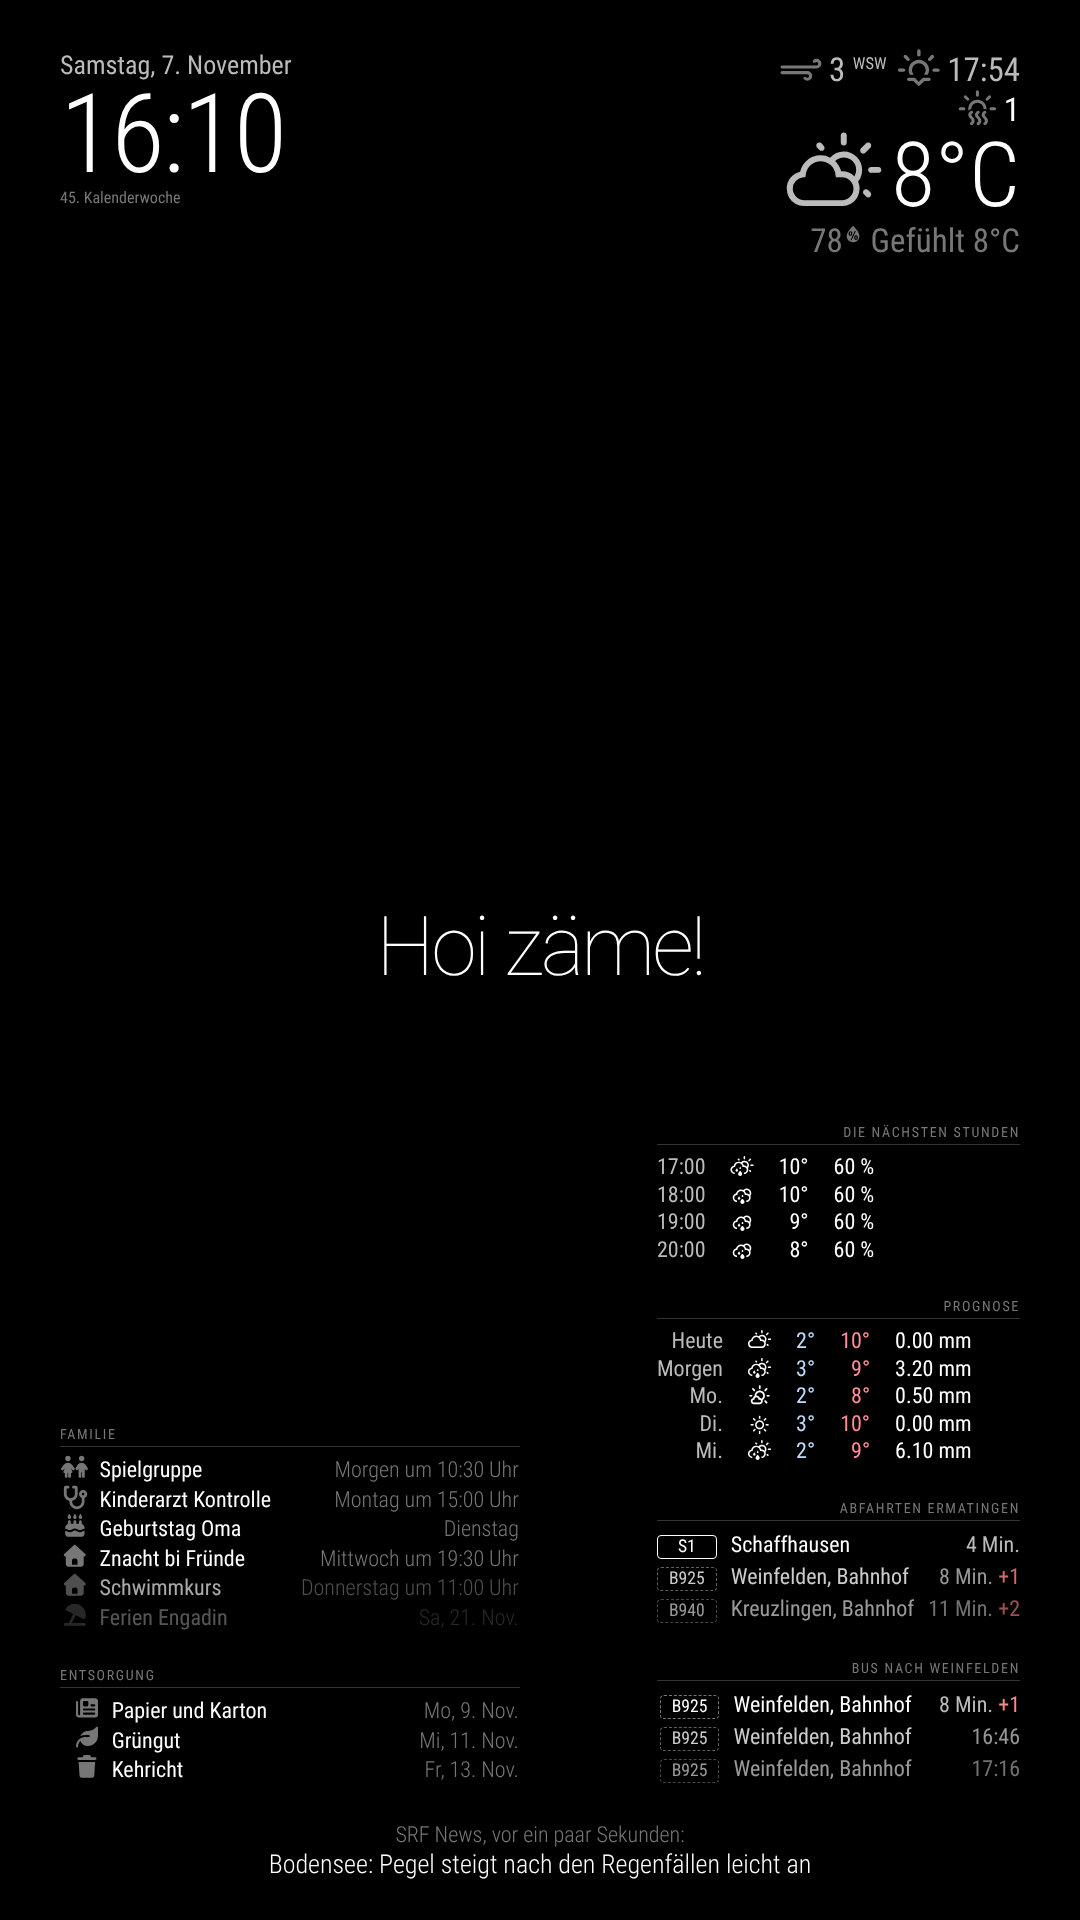
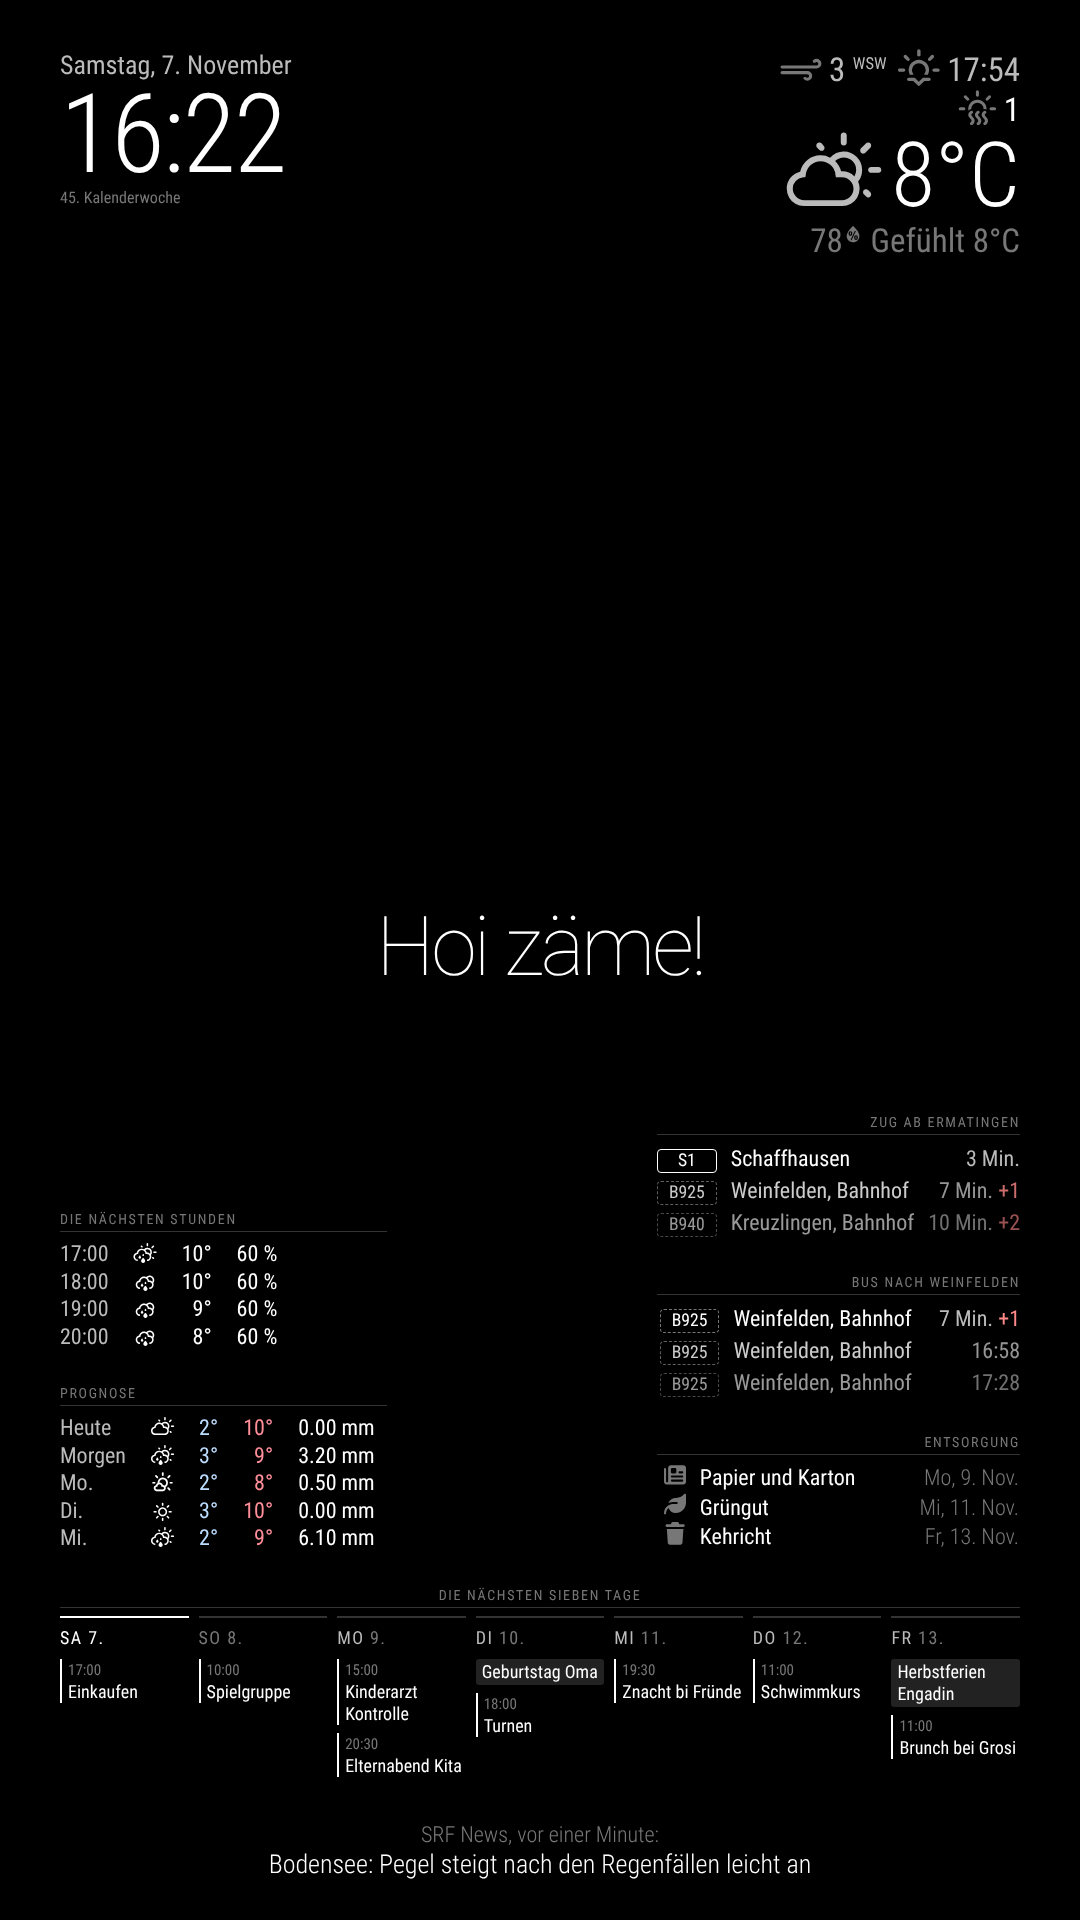
Wochenplan und ausgewogeneres Layout im Hochformat
- Neues Modul MMM-Wochenplan: Termine der nächsten sieben Tage als
  Raster über die ganze Breite, heute hervorgehoben, ganztägige
  Termine als Band; nutzt die Termine des calendar-Moduls
- Kalenderliste unsichtbar, liefert nur noch die Daten
- Wetter links, Zug, Bus und Entsorgung rechts, Wochenplan darunter
- Ortsname nicht mehr an jede Wetter-Überschrift angehängt
- Kalendertitel in der rechten Spalte linksbündig

Claude-Session: https://claude.ai/code/session_019gbBhKkhv1e2oQJ6HFNRXV

diff --git a/modules/MMM-Wochenplan/MMM-Wochenplan.js b/modules/MMM-Wochenplan/MMM-Wochenplan.js
@@ -1,0 +1,92 @@
+/* Wochenraster der Familientermine. Nutzt die Termine, die das calendar-Modul
+ * per CALENDAR_EVENTS verteilt, und braucht darum keine eigene Datenquelle.
+ */
+Module.register("MMM-Wochenplan", {
+	defaults: {
+		days: 7,                 // Anzahl Tage
+		startToday: true,        // true: ab heute, false: ab Montag dieser Woche
+		maxPerDay: 4,            // weitere Termine werden als «+2» zusammengefasst
+		calendars: [],           // nur diese Kalendernamen, leer = alle
+		maxTitleLength: 40
+	},
+
+	getStyles () {
+		return ["MMM-Wochenplan.css"];
+	},
+
+	start () {
+		this.events = [];
+		// Regelmässig neu zeichnen, damit der Tageswechsel stimmt
+		setInterval(() => this.updateDom(), 10 * 60 * 1000);
+	},
+
+	notificationReceived (notification, payload) {
+		if (notification !== "CALENDAR_EVENTS") return;
+		const erlaubt = this.config.calendars;
+		this.events = payload
+			.filter((ev) => !erlaubt.length || erlaubt.includes(ev.calendarName))
+			.map((ev) => ({ ...ev, start: Number(ev.startDate), end: Number(ev.endDate) }));
+		this.updateDom(500);
+	},
+
+	tage () {
+		const erster = moment().startOf("day");
+		if (!this.config.startToday) erster.startOf("isoWeek");
+		return Array.from({ length: this.config.days }, (_, i) => erster.clone().add(i, "days"));
+	},
+
+	termineAm (tag) {
+		const von = tag.valueOf();
+		const bis = tag.clone().add(1, "day").valueOf();
+		return this.events
+			.filter((ev) => ev.start < bis && ev.end > von)
+			.sort((a, b) => Number(b.fullDayEvent) - Number(a.fullDayEvent) || a.start - b.start);
+	},
+
+	getDom () {
+		const wrapper = document.createElement("div");
+		wrapper.className = "wochenplan";
+		const jetzt = Date.now();
+
+		for (const tag of this.tage()) {
+			const spalte = document.createElement("div");
+			spalte.className = "wp-tag";
+			if (tag.isSame(moment(), "day")) spalte.classList.add("wp-heute");
+			if (tag.isoWeekday() >= 6) spalte.classList.add("wp-wochenende");
+
+			const kopf = document.createElement("div");
+			kopf.className = "wp-kopf";
+			kopf.innerHTML = `<span class="wp-name">${tag.format("dd")}</span> <span class="wp-datum">${tag.format("D.")}</span>`;
+			spalte.appendChild(kopf);
+
+			const termine = this.termineAm(tag);
+			for (const ev of termine.slice(0, this.config.maxPerDay)) {
+				const eintrag = document.createElement("div");
+				eintrag.className = ev.fullDayEvent ? "wp-termin wp-ganztag" : "wp-termin";
+				if (!ev.fullDayEvent && ev.end < jetzt) eintrag.classList.add("wp-vorbei");
+
+				if (!ev.fullDayEvent) {
+					const zeit = document.createElement("div");
+					zeit.className = "wp-zeit";
+					zeit.textContent = moment(ev.start).isBefore(tag) ? "…" : moment(ev.start).format("HH:mm");
+					eintrag.appendChild(zeit);
+				}
+				const titel = document.createElement("div");
+				titel.className = "wp-titel";
+				const text = ev.title.length > this.config.maxTitleLength ? `${ev.title.slice(0, this.config.maxTitleLength - 1)}…` : ev.title;
+				titel.textContent = text;
+				if (ev.color) eintrag.style.borderLeftColor = ev.color;
+				eintrag.appendChild(titel);
+				spalte.appendChild(eintrag);
+			}
+			if (termine.length > this.config.maxPerDay) {
+				const mehr = document.createElement("div");
+				mehr.className = "wp-mehr";
+				mehr.textContent = `+${termine.length - this.config.maxPerDay}`;
+				spalte.appendChild(mehr);
+			}
+			wrapper.appendChild(spalte);
+		}
+		return wrapper;
+	}
+});

diff --git a/config/config.js b/config/config.js
@@ -22,27 +22,28 @@ const AUSRICHTUNG = "hoch";
 const HOCH = AUSRICHTUNG === "hoch";
 
 /* Wo welches Modul erscheint. Im Hochformat bleibt das obere Drittel
- * fürs Gesicht frei, die Details sitzen in der unteren Hälfte.
+ * fürs Gesicht frei, die Details sitzen in der unteren Hälfte:
+ * links das Wetter, rechts Fahrplan und Entsorgung, darunter der Wochenplan.
  */
 const PLATZ = HOCH
 	? {
 		uhr: "top_left",
 		wetter: "top_right",
-		familie: "bottom_left",
-		wetterStunden: "bottom_right",
-		prognose: "bottom_right",
+		wetterStunden: "bottom_left",
+		prognose: "bottom_left",
 		oev: "bottom_right",
-		entsorgung: "bottom_left",
+		entsorgung: "bottom_right",
+		wochenplan: "bottom_bar",
 		spruch: "middle_center"
 	}
 	: {
 		uhr: "top_left",
 		wetter: "top_right",
-		familie: "top_left",
 		wetterStunden: "top_right",
 		prognose: "top_right",
 		oev: "bottom_left",
-		entsorgung: "bottom_left",
+		entsorgung: "bottom_right",
+		wochenplan: "bottom_bar",
 		spruch: "lower_third"
 	};
 
@@ -114,12 +115,11 @@ const modules = [
 		}
 	},
 	{
+		// Ohne Position unsichtbar: lädt die Termine nur für den Wochenplan
 		module: "calendar",
-		header: "Familie",
-		position: PLATZ.familie,
 		config: {
-			maximumEntries: 7,
-			maximumNumberOfDays: 21,
+			maximumEntries: 50,
+			maximumNumberOfDays: 14,
 			fade: true,
 			fadePoint: 0.5,
 			wrapEvents: true,
@@ -173,6 +173,7 @@ const modules = [
 		position: PLATZ.wetterStunden,
 		header: "Die nächsten Stunden",
 		config: {
+			appendLocationNameToHeader: false,
 			weatherProvider: "openmeteo",
 			type: "hourly",
 			lat: STANDORT.lat,
@@ -189,6 +190,7 @@ const modules = [
 		position: PLATZ.prognose,
 		header: "Prognose",
 		config: {
+			appendLocationNameToHeader: false,
 			weatherProvider: "openmeteo",
 			type: "forecast",
 			lat: STANDORT.lat,
@@ -241,7 +243,17 @@ const modules = [
 		}
 	},
 
-	// Ganz unten: Nachrichten
+	// Unten über die ganze Breite: Wochenplan, darunter Nachrichten
+	{
+		module: "MMM-Wochenplan",
+		position: PLATZ.wochenplan,
+		header: "Die nächsten sieben Tage",
+		config: {
+			days: 7,
+			startToday: true,
+			maxPerDay: 4
+		}
+	},
 	{
 		module: "newsfeed",
 		position: "bottom_bar",

diff --git a/modules/MMM-Wochenplan/MMM-Wochenplan.css b/modules/MMM-Wochenplan/MMM-Wochenplan.css
@@ -1,0 +1,78 @@
+.wochenplan {
+	display: grid;
+	grid-template-columns: repeat(7, 1fr);
+	gap: 10px;
+	text-align: left;
+}
+
+.wp-tag {
+	min-height: 160px;
+	padding-top: 6px;
+	border-top: 2px solid #333;
+	overflow: hidden;
+}
+
+.wp-kopf {
+	margin-bottom: 8px;
+	color: var(--color-text);
+	font-size: 18px;
+	text-transform: uppercase;
+	letter-spacing: 0.08em;
+}
+
+.wp-datum {
+	color: var(--color-text-dimmed);
+}
+
+.wp-wochenende .wp-kopf {
+	color: var(--color-text-dimmed);
+}
+
+/* Heute hervorheben */
+.wp-heute {
+	border-top-color: var(--color-text-bright);
+}
+
+.wp-heute .wp-kopf,
+.wp-heute .wp-datum {
+	color: var(--color-text-bright);
+}
+
+.wp-termin {
+	margin-bottom: 8px;
+	padding-left: 6px;
+	border-left: 2px solid #555;
+	font-size: 18px;
+	line-height: 22px;
+}
+
+.wp-zeit {
+	color: var(--color-text-dimmed);
+	font-size: 15px;
+}
+
+.wp-titel {
+	color: var(--color-text-bright);
+	display: -webkit-box;
+	-webkit-line-clamp: 3;
+	-webkit-box-orient: vertical;
+	overflow: hidden;
+	overflow-wrap: anywhere;
+}
+
+/* Ganztägige Termine wie Ferien oder Geburtstage als dezentes Band */
+.wp-ganztag {
+	padding: 2px 6px;
+	border-left: none;
+	border-radius: 3px;
+	background: #222;
+}
+
+.wp-vorbei {
+	opacity: 0.35;
+}
+
+.wp-mehr {
+	color: var(--color-text-dimmed);
+	font-size: 14px;
+}

diff --git a/config/custom.css b/config/custom.css
@@ -76,6 +76,12 @@
 	color: var(--color-text-dimmed);
 }
 
+/* Kalender in der rechten Spalte: Titel trotzdem linksbündig */
+.region.right .calendar .title {
+	text-align: left;
+	padding-left: 10px;
+}
+
 /* Spruch: luftig in der unteren Bildhälfte */
 .compliments .module-content {
 	font-weight: 200;

diff --git a/docs/einrichten.md b/docs/einrichten.md
@@ -9,8 +9,9 @@ So sieht der Spiegel mit der aktuellen Konfiguration aus (Beispieldaten):
 | Oben links | Uhr mit Datum und Kalenderwoche |
 | Oben rechts | Aktuelles Wetter in Ermatingen |
 | Mitte | Frei fürs Spiegelbild, darunter ein Spruch in Mundart (je nach Tageszeit, Wetter, Feiertag und Geburtstag) |
-| Unten links | Familienkalender mit Symbolen je nach Termin, darunter der Entsorgungskalender |
-| Unten rechts | Die nächsten Stunden, Prognose für fünf Tage, nächste Abfahrten ab Ermatingen (eigenes Modul `MMM-OeV`) |
+| Unten links | Die nächsten Stunden und Prognose für fünf Tage |
+| Unten rechts | Zug ab Ermatingen, Bus ab Friedhof nach Weinfelden (eigenes Modul `MMM-OeV`), Entsorgung |
+| Unten, volle Breite | Wochenplan der Familie für die nächsten sieben Tage (eigenes Modul `MMM-Wochenplan`) |
 | Ganz unten | SRF News |
 
 Das Layout ist fürs Hochformat ausgelegt. Mit `AUSRICHTUNG = "quer"` oben in `config/config.js` verteilt es sich automatisch für ein Querformat.

diff --git a/README.md b/README.md
@@ -29,6 +29,8 @@ Die Smart-TV-Funktionen von Samsung (Tizen) werden bewusst nicht genutzt. Älter
 | `config/custom.css` | Anpassungen am Erscheinungsbild für Spiegelbetrieb |
 | `config/secrets.example.js` | Vorlage für Persönliches (Kalender, Geburtstage, Entsorgung) |
 | `modules/MMM-OeV` | Eigenes Modul: nächste Abfahrten ab Ermatingen |
+| `modules/MMM-Wochenplan` | Eigenes Modul: Familientermine der nächsten sieben Tage als Raster |
+| `scripts/warten.html` | Schwarze Startseite, damit der Spiegel nach dem Einschalten schneller erscheint |
 | `scripts/install.sh` | Automatisierte Installation auf dem Raspberry Pi |
 | `scripts/update.sh` | Neuesten Stand holen und Spiegel neu laden |
 | `scripts/ausrichtung.sh` | Bild dauerhaft ins Hochformat drehen |
